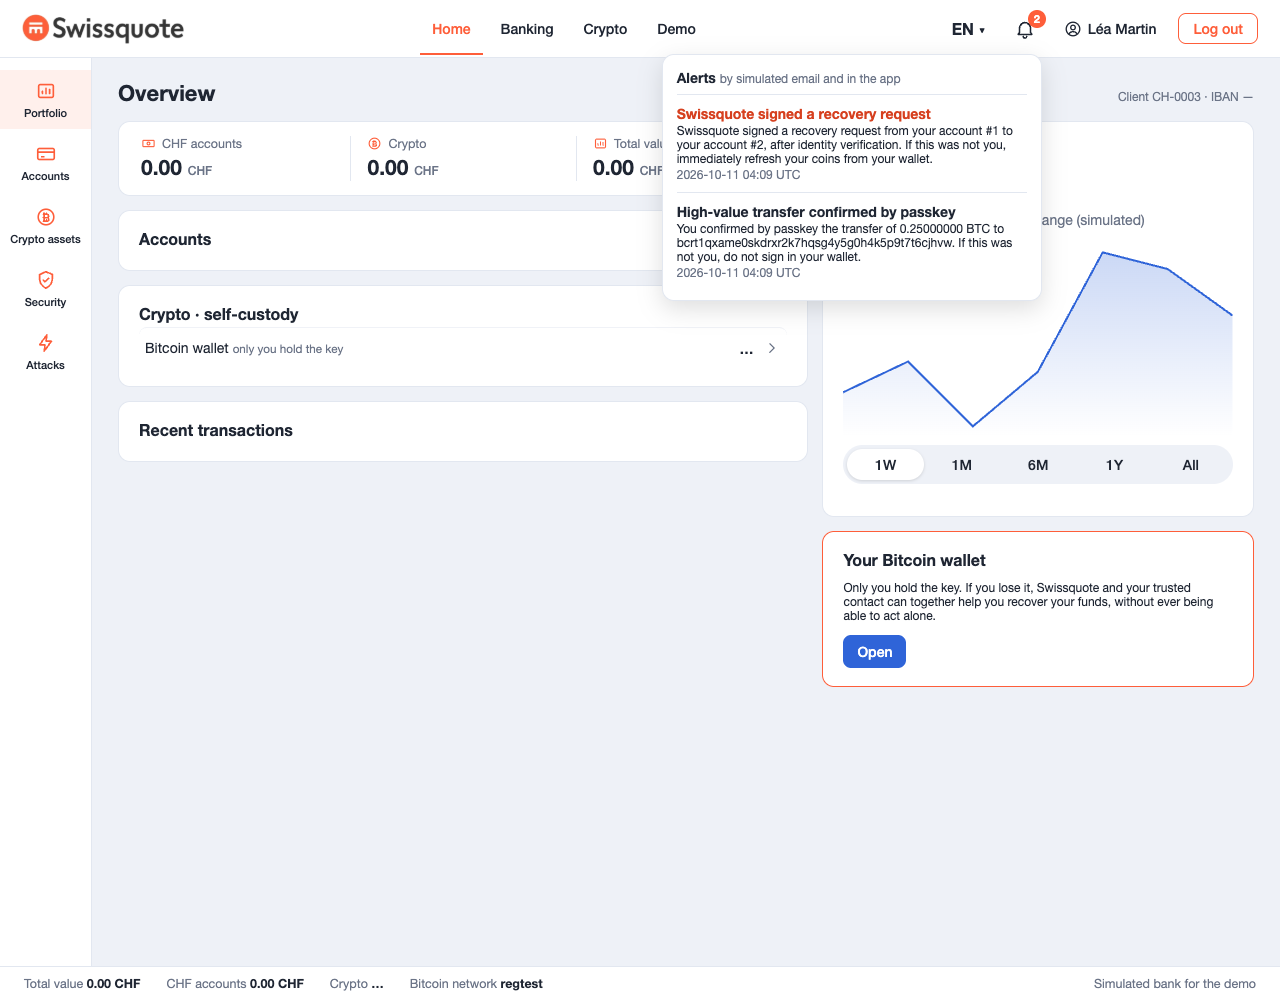
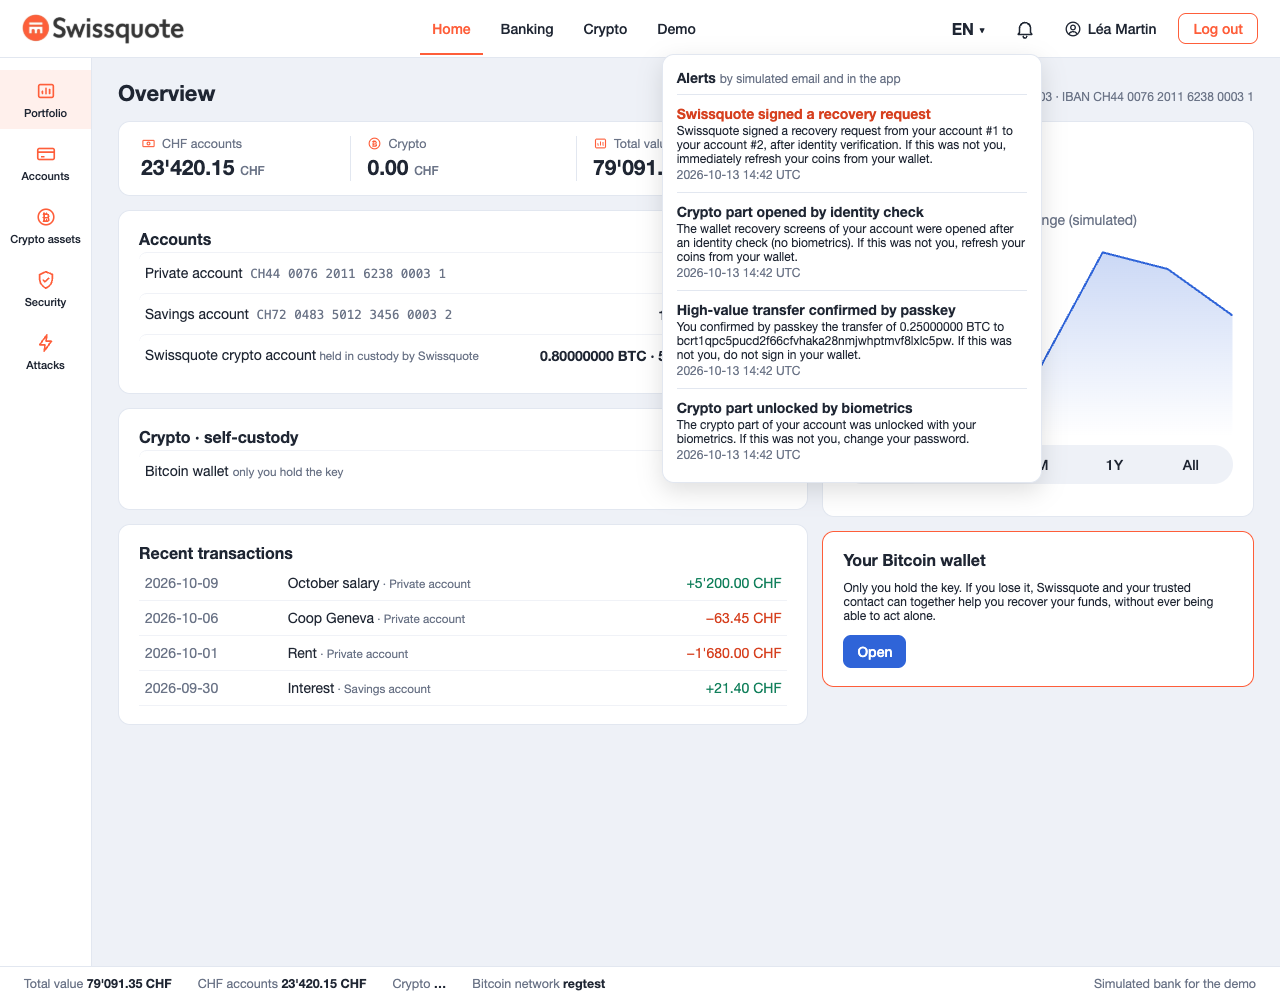
Étape 45 : rejouer le parcours complet avec la biométrie et le verrou crypto

diff --git a/scripts/validate/etape-6-ui.ts b/scripts/validate/etape-6-ui.ts
@@ -6,13 +6,10 @@ import { type ChildProcess, spawn } from "node:child_process";
 import { mkdirSync, readFileSync, rmSync } from "node:fs";
 import { type BrowserContext, type Page, chromium } from "playwright-core";
 import { buildSpend, createWalletConfig, outputAt, scan } from "@sq/bitcoin";
-import { open } from "../../client-wallet/src/vault.ts";
 import { makeReport, miner, rpc } from "./lib.ts";
 
-const PIN = "482916";
-// Choix du PIN à la création (deux champs), puis saisie sur les écrans de signature et de preuve.
-const choosePin = async (w: Page) => { await w.getByLabel("New PIN (6 to 12 digits)").fill(PIN); await w.getByLabel("Confirm the PIN").fill(PIN); };
-const typePin = (w: Page) => w.getByLabel("Wallet PIN").fill(PIN);
+// Depuis l'étape 36, le Wallet du client se déverrouille par biométrie (WebAuthn PRF) : chaque fenêtre du wallet reçoit
+// un authentificateur virtuel avec PRF (étape 39), qui garde sa passkey tant que la fenêtre reste ouverte.
 
 const APP = "http://localhost:5191";
 const BANK = "http://localhost:4110";
@@ -56,14 +53,28 @@ const device = async () => {
   ctx.on("page", watch);
   return ctx;
 };
-// Authentificateur WebAuthn virtuel de Chrome (CDP) : simule une passkey avec vérification de l'utilisateur réussie.
+// Authentificateur WebAuthn virtuel de Chrome (CDP) : simule une passkey avec vérification de l'utilisateur réussie,
+// et l'extension PRF (biométrie du Wallet du client).
 const addAuthenticator = async (ctx: BrowserContext, p: Page) => {
   const cdp = await ctx.newCDPSession(p);
   await cdp.send("WebAuthn.enable");
-  await cdp.send("WebAuthn.addVirtualAuthenticator", { options: { protocol: "ctap2", transport: "internal", hasResidentKey: true, hasUserVerification: true, isUserVerified: true, automaticPresenceSimulation: true } });
+  await cdp.send("WebAuthn.addVirtualAuthenticator", { options: { protocol: "ctap2", transport: "internal", hasResidentKey: true, hasUserVerification: true, isUserVerified: true, automaticPresenceSimulation: true, hasPrf: true } } as any);
 };
 const shot = (p: Page, n: string) => p.screenshot({ path: `${SHOTS}/etape-6-${MOBILE ? "mobile" : "desktop"}-${n}.png`, fullPage: true });
-const popupOf = async (ctx: BrowserContext, click: () => Promise<void>) => { const [p] = await Promise.all([ctx.waitForEvent("page"), click()]); await p.waitForLoadState(); return p; };
+const popupOf = async (ctx: BrowserContext, click: () => Promise<void>) => { const [p] = await Promise.all([ctx.waitForEvent("page"), click()]); await p.waitForLoadState(); await addAuthenticator(ctx, p); return p; };
+// Onglet Crypto : depuis l'étape 38, il est verrouillé tant que la biométrie (passkey vérifiée par bank-mock) n'a pas
+// été donnée ; il se reverrouille quand on le quitte (étape 39). Renvoie ce qui a été fait.
+const openCrypto = async (p: Page): Promise<"enabled" | "unlocked" | "open"> => {
+  await p.getByRole("button", { name: "Crypto", exact: true }).click();
+  const locked = p.getByTestId("crypto-locked");
+  await locked.or(p.getByTestId("btc-balance")).or(p.getByPlaceholder("Marie Dupont")).first().waitFor({ timeout: 20000 });
+  if (!(await locked.isVisible())) return "open";
+  const enable = p.getByRole("button", { name: "Enable biometrics" });
+  const how = (await enable.isVisible()) ? "enabled" : "unlocked";
+  await (how === "enabled" ? enable : p.getByRole("button", { name: "Unlock with biometrics" })).click();
+  await locked.waitFor({ state: "detached", timeout: 20000 });
+  return how;
+};
 const login = async (p: Page) => {
   await p.goto(APP);
   await p.evaluate(() => { localStorage.clear(); sessionStorage.clear(); });
@@ -106,29 +117,31 @@ try {
   await app.getByRole("button", { name: "Log in", exact: true }).click();
   await app.getByText(MOBILE ? "Savings" : "Private account").first().waitFor();
   await app.getByText(/8[’']420\.15/).first().waitFor(); // comptes CHF chargés
-  await app.getByText(MOBILE ? "Create" : "Create my wallet").first().waitFor(); // état du wallet lu (« … » pendant le chargement)
-  const overview = await app.locator("main").textContent();
-  report("6-2", "Connexion e-banking simulée (mauvais mot de passe refusé), aperçu avec comptes CHF et tuile « Créer mon wallet »",
-    /incorrect/i.test(badLogin ?? "") && (MOBILE ? !!overview?.includes("Total value") && !!overview?.includes("Cash") && !!overview?.includes("Create") : !!overview?.includes("Private account") && !!overview?.includes("Create my wallet")), `${badLogin} ; aperçu affiché`);
+  // Partie crypto verrouillée (étape 38) : l'aperçu ne montre pas encore l'état du wallet, seulement la tuile crypto.
+  await app.getByText(MOBILE ? "Cash" : /self-custody/i).filter({ visible: true }).first().waitFor();
+  const overview = (await app.locator("main").textContent()) ?? "";
+  report("6-2", "Connexion e-banking simulée (mauvais mot de passe refusé), aperçu avec comptes CHF et ligne / tuile crypto",
+    /incorrect/i.test(badLogin ?? "") && (MOBILE ? overview.includes("Total value") && overview.includes("Cash") && overview.includes("Crypto") : overview.includes("Private account") && /self-custody/i.test(overview)), `${badLogin} ; aperçu affiché`);
   await shot(app, "2-apercu");
 
-  // --- Passkey : activation depuis « Mon compte », déconnexion, reconnexion par passkey ---
-  await app.getByRole("button", { name: "My account" }).click();
-  await app.getByRole("button", { name: "Enable a passkey" }).click();
-  await app.getByText("Passkey enabled.").waitFor({ timeout: 15000 });
-  await app.getByRole("button", { name: "Log out" }).click();
-  await app.getByRole("button", { name: "Login", exact: true }).click(); // site public (étape 22)
-  await app.getByLabel("Username").fill("CH-0003");
-  await app.getByRole("button", { name: "Log in with a passkey" }).click();
-  await app.getByText(MOBILE ? "Savings" : "Private account").first().waitFor({ timeout: 15000 });
-  report("6-17", "Passkey : activée depuis « Mon compte », puis connexion sans mot de passe par passkey (WebAuthn, vérification de l'utilisateur)", true, "connexion par passkey réussie");
+  // --- Partie crypto verrouillée (étape 38) : la session bancaire seule ne suffit pas ---
+  const session = await app.evaluate(() => JSON.parse(sessionStorage.getItem("sq-bank:session") ?? "null"));
+  const auth = { authorization: `Bearer ${session?.token}` };
+  const lockedRoute = await fetch(`${BANK}/wallet/accounts?network=regtest`, { headers: auth });
+  await app.getByRole("button", { name: "Crypto", exact: true }).click();
+  await app.getByTestId("crypto-locked").waitFor({ timeout: 20000 });
+  await shot(app, "2b-crypto-verrouille");
+  const gate = await openCrypto(app);
+  const pk = await fetch(`${BANK}/auth/passkey`, { headers: auth }).then((r) => r.json());
+  const unlocked = await fetch(`${BANK}/wallet/accounts?network=regtest`, { headers: auth });
+  report("6-17", "Partie crypto verrouillée : route crypto refusée avec la seule session ; biométrie (passkey) activée depuis l'écran verrouillé, puis accès",
+    lockedRoute.status === 403 && gate === "enabled" && pk.count === 1 && unlocked.status === 200,
+    `session seule : ${lockedRoute.status} ; écran verrouillé puis « ${gate} » ; passkeys : ${pk.count} ; après : ${unlocked.status}`);
 
   // --- Wallet crypto : création via le Wallet du client ---
-  await app.getByRole("button", { name: "Crypto", exact: true }).click();
   await app.getByPlaceholder("Marie Dupont").fill("Marie Dupont");
   await app.getByLabel("Trusted contact's public key").fill(tiersKey);
   const wallet = await popupOf(ctxA, () => app.getByRole("button", { name: "Create my wallet with the Client Wallet" }).click());
-  await choosePin(wallet);
   await wallet.getByRole("button", { name: "Generate my secret phrase" }).click();
   await wallet.locator(".words li").nth(23).waitFor();
   const clientWords = (await wallet.locator(".words li").allTextContents()).map((w) => w.trim());
@@ -138,9 +151,10 @@ try {
   await app.getByTestId("btc-balance").waitFor({ timeout: 20000 });
   const stored = JSON.parse(readFileSync(WALLET_FILE, "utf8")) as any[];
   const mine_ = stored[stored.length - 1];
-  report("6-3", "Wallet du client : 24 mots générés et affichés une fois ; la banque reçoit la clé publique, la politique est enregistrée dans le wallet",
-    clientWords.length === 24 && !mine_.mnemonic && open(mine_.sealed, PIN) === clientWords.join(" ") && !!mine_.policy && mine_.policy.tiersName === "Marie Dupont",
-    `wallet ${mine_.id}, politique : délai ${mine_.policy?.delay}, tiers ${mine_.policy?.tiersName} ; mots=${clientWords.length}, phrase chiffrée par PIN = phrase affichée : ${open(mine_.sealed, PIN) === clientWords.join(" ")}, wallets stockés=${stored.length}`);
+  const walletFile = readFileSync(WALLET_FILE, "utf8");
+  report("6-3", "Wallet du client : 24 mots générés et affichés une fois, phrase chiffrée par la biométrie (PRF) ; la banque reçoit la clé publique, la politique est enregistrée dans le wallet",
+    clientWords.length === 24 && !mine_.mnemonic && !mine_.sealed && mine_.bio?.kdf === "hkdf-sha256-prf" && !walletFile.includes(clientWords.join(" ")) && !!mine_.policy && mine_.policy.tiersName === "Marie Dupont",
+    `wallet ${mine_.id}, politique : délai ${mine_.policy?.delay}, tiers ${mine_.policy?.tiersName} ; mots=${clientWords.length}, champs stockés : ${Object.keys(mine_).join(", ")}, phrase en clair sur le disque : ${walletFile.includes(clientWords.join(" "))}, wallets stockés=${stored.length}`);
 
   // Ni la graine, ni la clé privée dans l'appli de la banque ou chez Swissquote
   const appStorage = await app.evaluate(() => JSON.stringify({ ...localStorage }) + JSON.stringify({ ...sessionStorage }) + document.documentElement.outerHTML);
@@ -164,7 +178,6 @@ try {
   await wallet.getByRole("heading", { name: "Prove ownership of an address" }).waitFor({ timeout: 15000 });
   const challengeShown = (await wallet.locator(".message").textContent()) ?? "";
   await shot(wallet, "4b-wallet-preuve");
-  await typePin(wallet);
   await wallet.getByRole("button", { name: "Sign the proof" }).click();
   const proofText = (await app.getByTestId("ownership-result").textContent({ timeout: 15000 })) ?? "";
   report("6-13", "Preuve de propriété depuis l'interface : défi affiché en entier dans le wallet, signé après confirmation, vérifié par Swissquote",
@@ -190,7 +203,6 @@ try {
   await wallet.getByRole("heading", { name: "Confirm the transfer" }).waitFor({ timeout: 15000 });
   const confirm = (await wallet.locator("section").first().textContent()) ?? "";
   await shot(wallet, "5-wallet-confirmation");
-  await typePin(wallet);
   await wallet.getByRole("button", { name: "Confirm and sign" }).click();
   await app.getByRole("button", { name: "Broadcast on the Bitcoin network" }).click();
   const sent = await app.locator(".success", { hasText: "Transaction broadcast" }).textContent({ timeout: 15000 });
@@ -233,7 +245,7 @@ try {
   report("6-8", "Accueil : la ligne / tuile Crypto affiche le solde du wallet (contre-valeur CHF)", MOBILE ? Math.abs(shown - 0.4 * px) < 0.01 * px : !!tile?.includes("0.39") && !!tile?.includes("CHF"), `${tile?.replace(/\s+/g, " ") ?? ""} ; prix BTC ${px} CHF`);
 
   // --- Montant élevé : ré-authentification par passkey (Swissquote) + confirmation renforcée dans le wallet ---
-  await app.getByRole("button", { name: "Crypto", exact: true }).click();
+  await openCrypto(app);
   await app.getByRole("button", { name: "Send", exact: true }).click();
   await app.getByPlaceholder("tb1… / bcrt1…").fill(minerAddr);
   await app.getByPlaceholder("0.0001").fill("0.25");
@@ -244,12 +256,11 @@ try {
   await shot(wallet, "5b-montant-eleve");
   const highNote = (await app.getByTestId("stepup-note").textContent({ timeout: 15000 })) ?? "";
   await wallet.getByLabel("Last 6 characters of the address").fill(minerAddr.slice(-6));
-  await typePin(wallet);
   await wallet.getByRole("button", { name: "Confirm and sign" }).click();
   await app.getByRole("button", { name: "Broadcast on the Bitcoin network" }).click();
   const bigSent = (await app.locator(".success", { hasText: "Transaction broadcast" }).last().textContent({ timeout: 20000 })) ?? "";
   await mine(1);
-  report("6-18", "Montant élevé (0,25 BTC) : avertissement, ré-authentification par passkey auprès de Swissquote, puis 6 derniers caractères de l'adresse + PIN dans le wallet ; diffusé",
+  report("6-18", "Montant élevé (0,25 BTC) : avertissement, ré-authentification par passkey auprès de Swissquote, puis 6 derniers caractères de l'adresse + biométrie dans le wallet ; diffusé",
     highWarn.includes("High-value amount") && highNote.includes("confirmed by passkey") && /[0-9a-f]{64}/.test(bigSent), `${highNote} ; ${bigSent.trim().slice(0, 90)}`);
 
   // --- Perte du wallet, puis recovery depuis un NOUVEL appareil ---
@@ -263,11 +274,11 @@ try {
 
   const ctxB = await device();
   const nd = await ctxB.newPage();
+  await addAuthenticator(ctxB, nd); // nouvel appareil : sa propre biométrie, sans la passkey de l'ancien
   await login(nd);
   await nd.getByRole("button", { name: "Crypto", exact: true }).click();
-  await nd.getByTestId("btc-balance").waitFor({ timeout: 20000 });
-  await nd.locator(".crypto-tabs").getByRole("button", { name: "Security" }).click();
-  await nd.getByRole("button", { name: /I lost my wallet/ }).click();
+  await nd.getByTestId("crypto-locked").waitFor({ timeout: 20000 });
+  await nd.getByRole("button", { name: /I lost my device or my biometrics/ }).click();
   const kyc = nd.locator(".step").first().locator("input");
   await kyc.nth(0).fill("Martin");
   await kyc.nth(1).fill("1992-03-21");
@@ -275,7 +286,6 @@ try {
   await nd.getByRole("button", { name: "Verify my identity" }).click();
   await nd.locator("p", { hasText: mine_.accountKey.slice(0, 22) }).getByRole("button", { name: "Select" }).click();
   const newWallet = await popupOf(ctxB, () => nd.getByRole("button", { name: "Create a new wallet with the Client Wallet" }).click());
-  await choosePin(newWallet);
   await newWallet.getByRole("button", { name: "Generate my secret phrase" }).click();
   await newWallet.getByLabel("I have written my phrase down in a safe place").check();
   await newWallet.getByRole("button", { name: "Send my public key to Swissquote" }).click();
@@ -336,7 +346,6 @@ try {
   await nd.locator("#transferer").getByPlaceholder("0.1").fill("0.1");
   await nd.getByRole("button", { name: "Transfer to my wallet" }).click();
   await newWallet.getByRole("heading", { name: "Prove ownership of an address" }).waitFor({ timeout: 20000 });
-  await typePin(newWallet);
   await newWallet.getByRole("button", { name: "Sign the proof" }).click();
   const tr = (await nd.getByTestId("transfer-result").textContent({ timeout: 30000 })) ?? "";
   const trTxid = tr.match(/[0-9a-f]{64}/)?.[0];
@@ -352,6 +361,11 @@ try {
   await nd.getByRole("button", { name: "Demo", exact: true }).click();
   const attacks = await nd.locator(".attack button").count();
   report("6-10", "Onglet « Démo » (regtest) avec les trois scénarios d\x27attaque", attacks === 3, `${attacks} boutons`);
+} catch (e) {
+  // Diagnostic : texte de chaque page ouverte au moment de l'échec.
+  for (const c of browser.contexts()) for (const p of c.pages()) console.log(`PAGE ${p.url()} :`, ((await p.locator("body").textContent().catch(() => "")) ?? "").replace(/\s+/g, " ").slice(0, 800));
+  console.log("ERREURS :", errors.join(" | "));
+  throw e;
 } finally {
   await browser.close();
   stopAll();

diff --git a/client-wallet/src/ui/App.tsx b/client-wallet/src/ui/App.tsx
@@ -150,13 +150,18 @@ export function App() {
 function Create({ req, onDone, onError }: { req: Req; onDone: (d: unknown) => void; onError: (e: string) => void }) {
   const [created, setCreated] = useState<{ wallet: WalletView; mnemonic: string } | null>(null);
   const [noted, setNoted] = useState(false);
-  const [method, setMethod] = useState<"bio" | null>(null);
+  // `null` : vérification en cours. Revérifiée au clic : un authentificateur branché ou activé après l'ouverture de la
+  // fenêtre (clé de sécurité, Touch ID déverrouillé) ne doit pas laisser le bouton désactivé pour toujours.
+  const [available, setAvailable] = useState<boolean | null>(null);
   const [busy, setBusy] = useState(false);
-  useEffect(() => { Promise.resolve(bioAvailable()).then((ok) => setMethod(ok ? "bio" : null)); }, []);
+  useEffect(() => { Promise.resolve(bioAvailable()).then((ok) => setAvailable(!!ok)); }, []);
   const words = useRef<string[]>([]);
   const generate = async () => {
     setBusy(true);
     try {
+      const ok = !!(await bioAvailable());
+      setAvailable(ok);
+      if (!ok) throw new Error("This device does not provide the required biometric authenticator.");
       const unlock = { bio: await bioEnroll(req.payload?.label ?? "My wallet") };
       const c = await api("/api/wallets", { network: req.network, label: req.payload?.label, ...unlock });
       words.current = c.mnemonic.split(" "); setCreated(c);
@@ -168,9 +173,9 @@ function Create({ req, onDone, onError }: { req: Req; onDone: (d: unknown) => vo
         <h2>Create your Bitcoin wallet</h2>
         <p>The app <strong>{req.origin}</strong> is asking to create a wallet. Your secret phrase will be generated here, on this device. Swissquote will only receive your public key.</p>
         <p className="small">Biometrics are required to unlock and sign with this wallet. Your device will ask for your fingerprint or face twice: once to create the wallet key, once to use it.</p>
-        {!method && <p className="error">This device does not provide the required biometric authenticator.</p>}
-        <button disabled={busy || !method} onClick={generate}>
-          {busy && method === "bio" ? "Waiting for biometrics…" : "Generate my secret phrase"}
+        {available === false && <p className="error">This device does not provide the required biometric authenticator.</p>}
+        <button disabled={busy || available === null} onClick={generate}>
+          {busy ? "Waiting for biometrics…" : "Generate my secret phrase"}
         </button>
       </section>
     );

diff --git a/docs/validation/etape-45.md b/docs/validation/etape-45.md
@@ -1,0 +1,32 @@
+# Étape 45 — Parcours complet dans Chrome avec la biométrie et le verrou crypto
+
+## Problème
+
+`validate:6:ui` saisissait encore un PIN (refusé par design depuis l'étape 36) et se connectait par passkey (route
+retirée à l'étape 27). Le parcours complet n'avait pas été rejoué depuis : biométrie du Client Wallet (étape 36),
+verrou crypto (étape 38), wallets propres à l'appareil (étape 40).
+
+## Modifications
+
+- `scripts/validate/etape-6-ui.ts` : chaque fenêtre du Client Wallet reçoit un authentificateur virtuel avec PRF
+  (étape 44) ; plus de PIN. Le test 6-17 vérifie désormais le verrou crypto : route crypto refusée (403) avec la seule
+  session, biométrie activée depuis l'écran verrouillé, puis accès. Nouvel appareil : recovery ouverte depuis
+  « I lost my device or my biometrics ». Diagnostic (texte des pages) en cas d'échec.
+- `client-wallet/src/ui/App.tsx` : la disponibilité de la biométrie est revérifiée au clic sur « Generate my secret
+  phrase ». Défaut observé sur téléphone : vérifiée seulement à l'ouverture de la fenêtre, une réponse négative
+  (authentificateur pas encore prêt) laissait le bouton désactivé pour toujours.
+
+## Validation exécutée
+
+| Commande | Résultat observé |
+| --- | --- |
+| `npm run validate:6:ui` | 19/19 (`etape-45-ui-ordinateur-sortie.txt`) |
+| `MOBILE=1 npm run validate:6:ui` | 20/20 (`etape-45-ui-telephone-sortie.txt`) |
+| `npx tsc -p client-wallet` | succès |
+
+Captures `captures/etape-6-*` mises à jour (nouvelle : `2b-crypto-verrouille`).
+
+## Non validé
+
+- Touch ID réel (authentificateur virtuel de Chrome uniquement).
+- `validate:17` et `validate:18` (Ethereum, Sepolia) saisissent encore un PIN : traités à une étape suivante.
